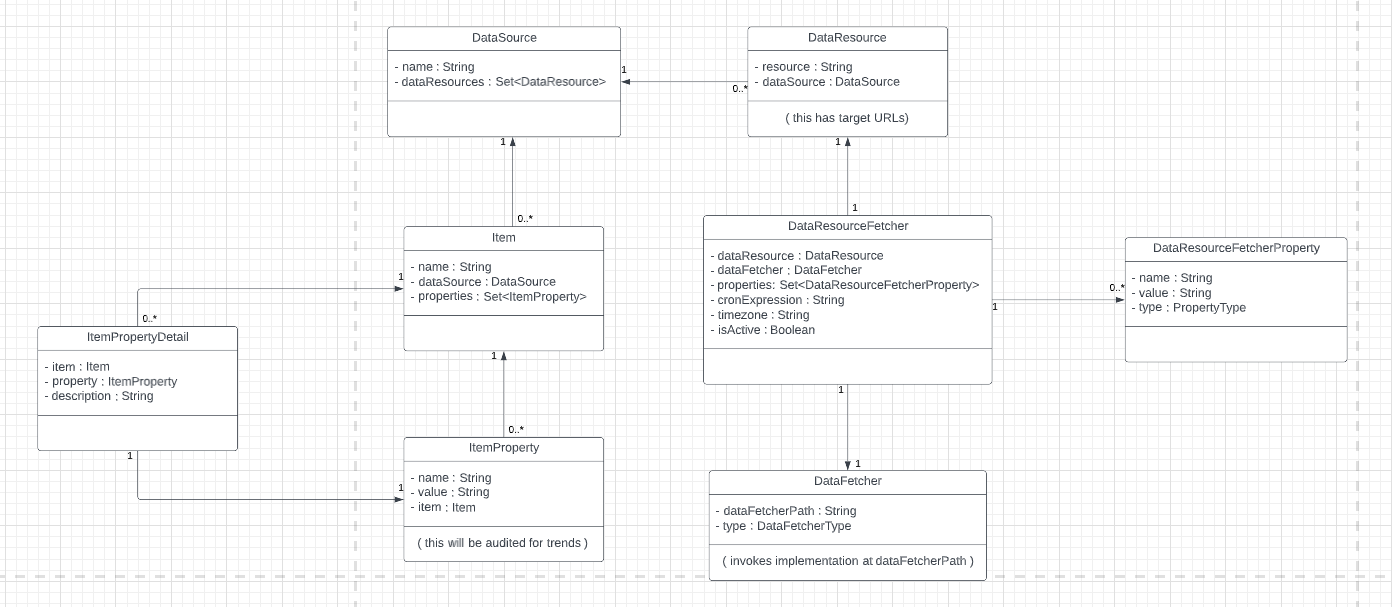
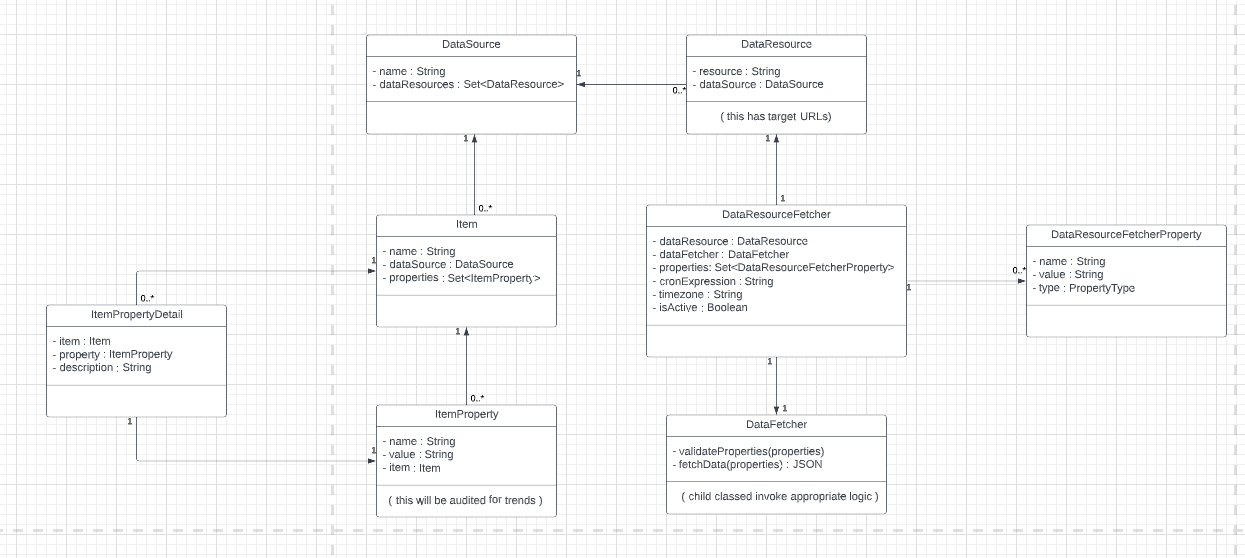
more changes

diff --git a/src/main/java/com/assignment/cq/services/ItemsIngestServiceImpl.java b/src/main/java/com/assignment/cq/services/ItemsIngestServiceImpl.java
@@ -1,9 +1,9 @@
 package com.assignment.cq.services;
 
-import com.assignment.cq.model.PropertyType;
 import com.assignment.cq.model.data.Item;
 import com.assignment.cq.model.data.ItemProperty;
 import com.assignment.cq.model.sourceparsing.DataSource;
+import com.assignment.cq.repositories.DataSourceRepository;
 import com.assignment.cq.repositories.ItemPropertyRepository;
 import com.assignment.cq.repositories.ItemRepository;
 import com.google.gson.JsonArray;
@@ -16,13 +16,16 @@ import javax.transaction.Transactional;
 import java.util.*;
 
 @Service
-public class ItemsServiceImpl implements ItemsService {
+public class ItemsIngestServiceImpl implements ItemsIngestService {
 
     @Autowired
     private ItemRepository itemRepository;
 
     @Autowired
     private ItemPropertyRepository itemPropertyRepository;
+
+    @Autowired
+    private DataSourceRepository dataSourceRepository;
 
     private Item getOrCreateItem(String itemName, DataSource source) {
         List<Item> itemList = itemRepository.findByNameAndSource_Name(itemName, source.getName());
@@ -45,7 +48,6 @@ public class ItemsServiceImpl implements ItemsService {
             itemProperty = itemPropertyList.get(0);
             if (!String.valueOf(itemProperty.getValue()).equals(propertyValue)) {
                 itemProperty.setValue(propertyValue);
-                itemPropertyRepository.save(itemProperty);
             }
         } else {
             itemProperty = new ItemProperty();
@@ -53,14 +55,34 @@ public class ItemsServiceImpl implements ItemsService {
             itemProperty.setValue(propertyValue);
             itemProperty.setItem(item);
         }
+        itemPropertyRepository.save(itemProperty);
     }
 
+    /**
+     * Attaches supplied @items to source with given @sourceName
+     * & updates or inserts them to the DB.
+     * @param sourceName : Name
+     * @param items : JSON array of item objects with their properties
+     */
     @Override
     @Transactional
-    public void updateOrInsertItems(DataSource source, JsonArray items) {
+    public void updateOrInsertItems(String sourceName, JsonArray items) {
+
+        List<DataSource> sourceList = dataSourceRepository.findByName(sourceName);
+        DataSource source = null;
+        if (sourceList != null && !sourceList.isEmpty()) {
+            source = sourceList.get(0);
+        } else {
+            throw new IllegalArgumentException(String.format("Source with ID %s not found", sourceName));
+        }
+
         for (JsonElement itemJsonElem : items) {
             JsonObject itemJsonObj = itemJsonElem.getAsJsonObject();
 
+            /*
+             * FIXME: handle ID field better
+             *  Potential solution - Pass ID field as parameter from DataResourceFetcher
+             */
             if (!itemJsonObj.has("name")) {
                 throw new IllegalStateException("Name field has not been extracted");
             }

diff --git a/src/main/java/com/assignment/cq/scheduling/TaskSchedulingService.java b/src/main/java/com/assignment/cq/scheduling/TaskSchedulingService.java
@@ -3,7 +3,7 @@ package com.assignment.cq.scheduling;
 import com.assignment.cq.datafetchers.IDataFetcher;
 import com.assignment.cq.model.Property;
 import com.assignment.cq.model.sourceparsing.*;
-import com.assignment.cq.services.ItemsService;
+import com.assignment.cq.services.ItemsIngestService;
 import com.google.gson.JsonArray;
 import org.apache.logging.log4j.LogManager;
 import org.apache.logging.log4j.Logger;
@@ -35,7 +35,7 @@ public class TaskSchedulingService {
     private TaskScheduler taskScheduler;
 
     @Autowired
-    private ItemsService itemsService;
+    private ItemsIngestService itemsIngestService;
 
     Map<Long, ScheduledFuture<?>> jobsMap = new HashMap<>();
 
@@ -51,6 +51,7 @@ public class TaskSchedulingService {
             @Override
             public void run() {
                 // get resource details
+                // FIXME : Store ID of DataResourceFetcher, & refresh it always
                 DataResource dataResource = dataResourceFetcher.getDataResource();
                 String resource = dataResource.getResource();
                 DataSource source = dataResource.getDataSource();
@@ -68,7 +69,7 @@ public class TaskSchedulingService {
                         JsonArray result = invokeSpringBeanDataFetcher(resource,
                                 dataFetcher.getDataFetcherPath(), suppliedProperties);
                         // TODO: if chunk size is large, split into multiple transactions
-                        itemsService.updateOrInsertItems(source, result);
+                        itemsIngestService.updateOrInsertItems(source.getName(), result);
                     }
                     // TODO : handle other fetcher types
                 } catch (Exception e) {

diff --git a/src/main/java/com/assignment/cq/Main.java b/src/main/java/com/assignment/cq/Main.java
@@ -5,7 +5,7 @@ import com.assignment.cq.model.sourceparsing.DataResource;
 import com.assignment.cq.model.sourceparsing.DataSource;
 import com.assignment.cq.repositories.DataResourceRepository;
 import com.assignment.cq.repositories.DataSourceRepository;
-import com.assignment.cq.services.ItemsService;
+import com.assignment.cq.services.ItemsIngestService;
 import com.google.gson.Gson;
 import com.google.gson.JsonArray;
 import org.apache.logging.log4j.LogManager;
@@ -28,7 +28,7 @@ public class Main implements CommandLineRunner {
     private static final Logger logger = LogManager.getLogger(Main.class);
 
     @Autowired
-    private ItemsService itemsService;
+    private ItemsIngestService itemsIngestService;
 
     @Autowired
     private DataSourceRepository dataSourceRepository;
@@ -68,9 +68,7 @@ public class Main implements CommandLineRunner {
         try {
             JsonArray result = crawler.fetchData(resource, properties);
             logger.info(result);
-            itemsService.updateOrInsertItems(dataSource, result);
-            Thread.sleep(10000);
-            itemsService.updateOrInsertItems(dataSource, result);
+            itemsIngestService.updateOrInsertItems(dataSource.getName(), result);
         } catch (Exception e) {
             logger.error("Exception !!", e);
         }

diff --git a/src/main/java/com/assignment/cq/model/sourceparsing/DataFetcher.java b/src/main/java/com/assignment/cq/model/sourceparsing/DataFetcher.java
@@ -3,12 +3,14 @@ package com.assignment.cq.model.sourceparsing;
 import com.assignment.cq.model.Auditable;
 import com.assignment.cq.model.Identifiable;
 import com.assignment.cq.model.IdentifiableAuditable;
+import com.google.gson.JsonArray;
 
 import javax.persistence.*;
+import java.util.Map;
 
 @Entity
 @Table(name = "sp_data_fetcher")
-public class DataFetcher extends IdentifiableAuditable {
+public abstract class DataFetcher extends IdentifiableAuditable {
 
     @Column(name = "data_fetcher_path", nullable = false)
     private String dataFetcherPath;
@@ -32,4 +34,7 @@ public class DataFetcher extends IdentifiableAuditable {
     public void setType(DataFetcherType type) {
         this.type = type;
     }
+
+    public abstract void validateProperties(Map<String, String> properties);
+    public abstract JsonArray fetchData(String resource, Map<String, String> properties) throws Exception;
 }

diff --git a/src/main/java/com/assignment/cq/model/sourceparsing/SimpleXPathBasedWebCrawlerDataFetcher.java b/src/main/java/com/assignment/cq/model/sourceparsing/SimpleXPathBasedWebCrawlerDataFetcher.java
@@ -1,0 +1,17 @@
+package com.assignment.cq.model.sourceparsing;
+
+import com.google.gson.JsonArray;
+
+import java.util.Map;
+
+public class SimpleXPathBasedWebCrawlerDataFetcher extends DataFetcher {
+    @Override
+    public void validateProperties(Map<String, String> properties) {
+
+    }
+
+    @Override
+    public JsonArray fetchData(String resource, Map<String, String> properties) throws Exception {
+        return null;
+    }
+}

diff --git a/src/main/java/com/assignment/cq/model/sourceparsing/ExternalServiceBasedDataFetcher.java b/src/main/java/com/assignment/cq/model/sourceparsing/ExternalServiceBasedDataFetcher.java
@@ -1,0 +1,17 @@
+package com.assignment.cq.model.sourceparsing;
+
+import com.google.gson.JsonArray;
+
+import java.util.Map;
+
+public class ExternalServiceBasedDataFetcher extends DataFetcher {
+    @Override
+    public void validateProperties(Map<String, String> properties) {
+
+    }
+
+    @Override
+    public JsonArray fetchData(String resource, Map<String, String> properties) throws Exception {
+        return null;
+    }
+}

diff --git a/src/main/java/com/assignment/cq/model/sourceparsing/PDFDataFetcher.java b/src/main/java/com/assignment/cq/model/sourceparsing/PDFDataFetcher.java
@@ -1,0 +1,17 @@
+package com.assignment.cq.model.sourceparsing;
+
+import com.google.gson.JsonArray;
+
+import java.util.Map;
+
+public class PDFDataFetcher extends DataFetcher {
+    @Override
+    public void validateProperties(Map<String, String> properties) {
+
+    }
+
+    @Override
+    public JsonArray fetchData(String resource, Map<String, String> properties) throws Exception {
+        return null;
+    }
+}

diff --git a/src/main/java/com/assignment/cq/services/ItemsIngestService.java b/src/main/java/com/assignment/cq/services/ItemsIngestService.java
@@ -3,6 +3,6 @@ package com.assignment.cq.services;
 import com.assignment.cq.model.sourceparsing.DataSource;
 import com.google.gson.JsonArray;
 
-public interface ItemsService {
-    void updateOrInsertItems(DataSource source, JsonArray items);
+public interface ItemsIngestService {
+    void updateOrInsertItems(String sourceName, JsonArray items);
 }

diff --git a/readme.md b/readme.md
@@ -1,0 +1,8 @@
+Pre-requisites - Java 8, Maven, MySQL (user credentials - root/welcome123, schema "ciq" should exist)
+
+Commands to start the server - 
+git clone https://github.com/chinmay5794/AssignmentCQ.git
+mvn clean install -DskipTests
+java -jar target/cj-1.0.0.jar
+
+Output should be seen in tables ciq.dt_item & ciq.dt_item_property.
